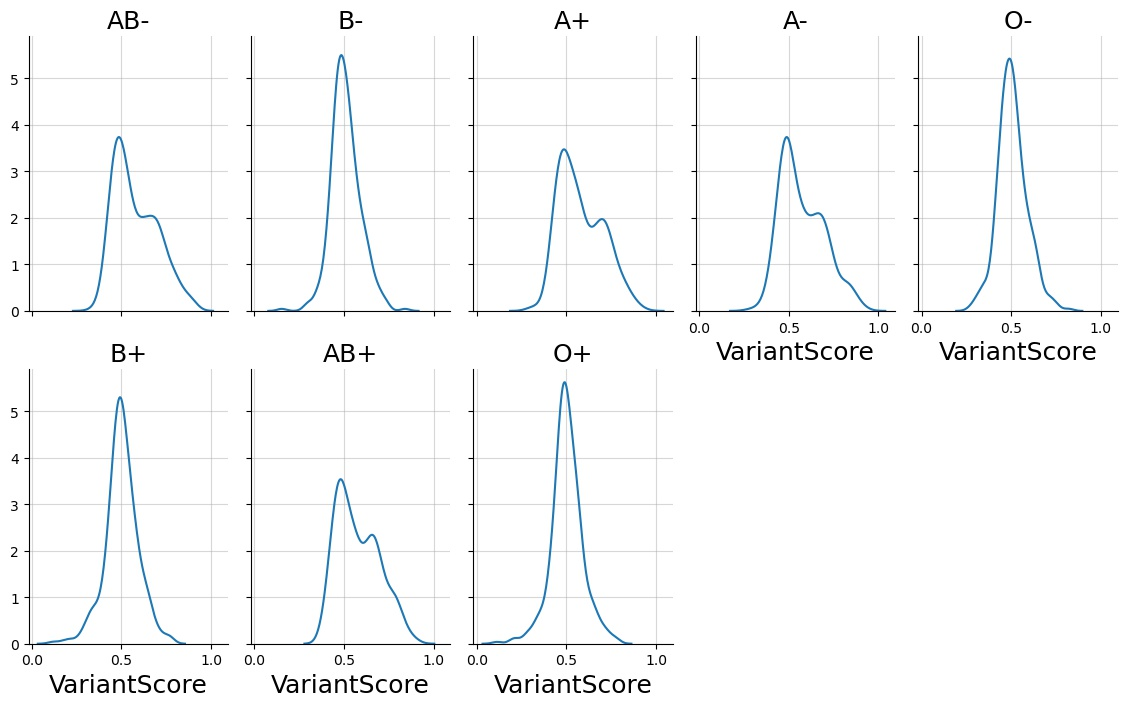
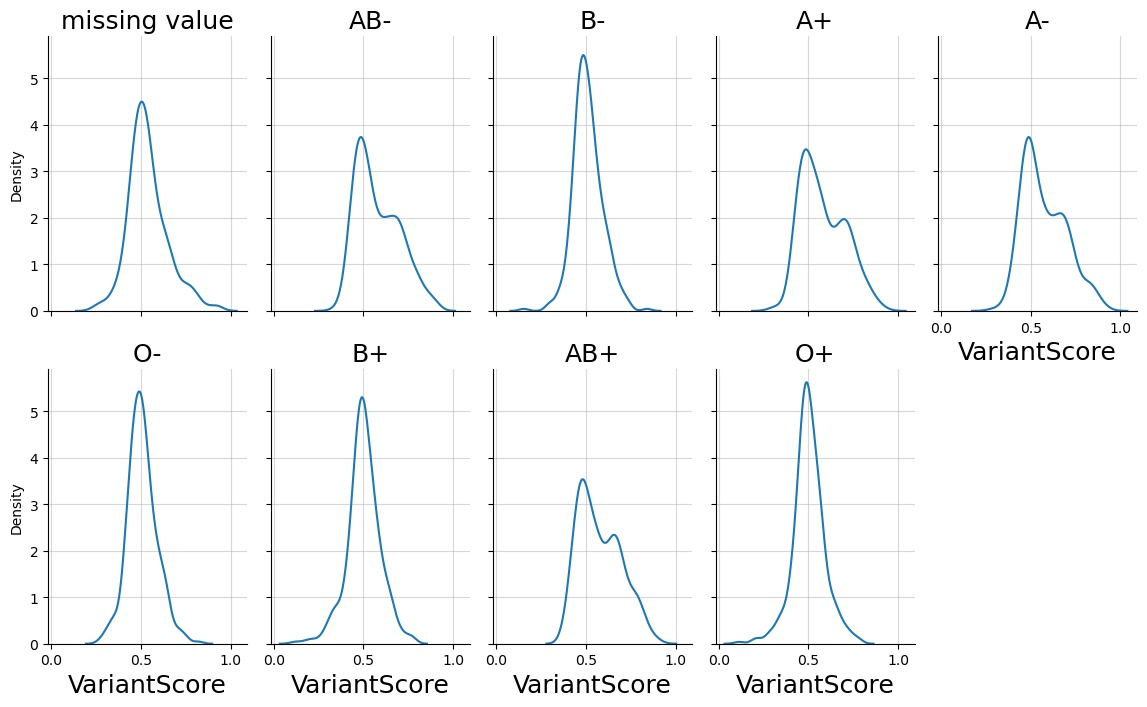
updated code

diff --git a/main.py b/main.py
@@ -28,7 +28,7 @@ if __name__ == '__main__':
     # plt.figure(figsize=(20, 20))
     # plt.title('Final Correlation Map', fontsize=20)
     # ax = sns.heatmap(corrMatrix, xticklabels=True, yticklabels=True, annot=True)
-    # plt.show()
+    # # plt.show()
     # plt.savefig('correlation_matrix.jpg', bbox_inches='tight')
 
     print(dataset_labeled.info())
@@ -42,6 +42,7 @@ if __name__ == '__main__':
     """""
     # Q3 conditional distribution for BloodType:
     """""
+    train.BloodType = train.BloodType.fillna('missing value')
     g = sns.FacetGrid(train, col="BloodType", height=3.5, aspect=.65, col_wrap=5)
     g.map(sns.kdeplot, "VariantScore")
     g.set_titles(col_template="{col_name}", size=18)
